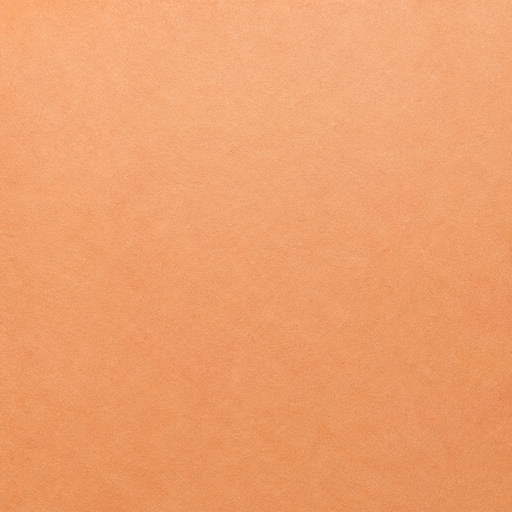
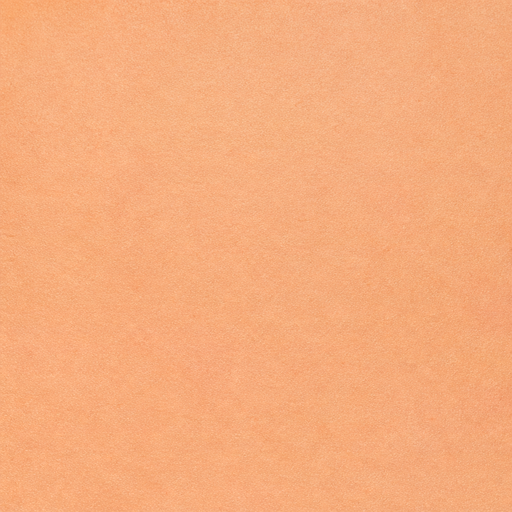
ART-0 pass 3: the material tiles skin and fabric really tile now (level correction, no resample)
Measured on the shipped 512 bytes: skin's wrap cut steps 24.71 levels against the tile's own
grain of 4.54 (5.4x, 94.6 % of boundary pixels step > 12, p95 42) and fabric 2.1x/2.4x - both
read as a hard brightness line at every 0.5 m repeat in the gallery material row. A crop that
minimises the boundary step (pure roll) was rejected by a blind 2x2 A/B: it only moves the step
inside the tile. Tools/gen-level-textures.py now levels the tile instead - one constant per row
and per column (c(y) = d*y/(h-1)), applied only when cut > 1.5 levels and cut > 2x the tile's
own grain, so no interior difference changes, nothing is blurred or relocated. skin Y
24.71 -> 5.64, fabric Y 7.23 -> 5.12 / X 5.72 -> 4.91.

Determinism: the rerun touches exactly skin.png and fabric.png (git status names two files);
the four level PNGs and all 11 .meta files are byte-identical, guids unmoved. Evidence:
Trials/Runs/art-0-tilewrap/{skin,fabric}_fixed_blind.png (shipped bytes vs new) and the real
frame from the rebuilt preview player, Trials/Runs/gallery2_*.png vs gallery1_* (differ in
exactly the skin and fabric swatch blocks, x 281-431 and x 485-634). No .cs touched; skin and
fabric have one caller (GalleryScene material row), so no simulation path loads them.

Changed region(s): [[0.0, 0.7812, 1.0, 1.0]]

diff --git a/Tools/gen-level-textures.py b/Tools/gen-level-textures.py
@@ -20,6 +20,13 @@ downsamples to 512 at runtime anyway and tiled surfaces gain nothing above that 
 Painted here: ground_fill (soil side view), ground_cap (grass strip), sky (colour ramp),
 sign_finish (finish pennant). All four are seamless in X where they are tiled.
 
+The seven material tiles are downscaled 1024 -> 512 and then levelled: a legacy surface
+whose top edge is brighter than its bottom edge cannot tile, because every repeat steps by
+that difference and the eye reads the step as a line at the repeat (ART-0 review, 19.09:
+skin stepped 24.7 levels over 94.6 % of its boundary, 5.4x its own grain). Levelling adds
+one constant per row and one per column, so the level returns to itself at the wrap while
+every interior difference and every detail is left alone.
+
 Run from the project root:   python Tools/gen-level-textures.py
 Writes the PNGs plus their .meta import settings, then prints a verification table.
 """
@@ -30,6 +37,7 @@ import random
 import re
 import shutil
 
+import numpy as np
 from PIL import Image
 
 ROOT = os.path.dirname(os.path.dirname(os.path.abspath(__file__)))
@@ -440,6 +448,58 @@ def seam_error(img):
     return seam, inner
 
 
+def wrap_stats(a, axis):
+    """(cut, inner) in 0-255 levels, averaged over the RGB channels.
+
+    cut   = |first edge pixel - last edge pixel|: the step a repeat shows at the wrap.
+    inner = |neighbour pixel|: the grain the eye already accepts inside the tile.
+    A tile whose cut is no worse than its own grain cannot be seen to repeat.
+    """
+    cut = np.abs(a.take(0, axis=axis).astype(np.int16) - a.take(-1, axis=axis).astype(np.int16))
+    inner = np.abs(np.diff(a.astype(np.int16), axis=axis))
+    return float(cut.mean()), float(inner.mean())
+
+
+def level_tile(img, ratio=2.0, floor=1.5, cap=64.0):
+    """Cancel a brightness ramp across a tile with one constant per row and one per column.
+
+    A legacy surface whose top edge is brighter than its bottom edge cannot tile: every
+    repeat steps by that difference and the eye reads the step as a line on the grid. The
+    correction c(y) = d * y / (h - 1), d being the row means' end-to-end difference, makes
+    the row means meet at the wrap, and the same in x. A constant per row cannot change an
+    interior difference, so no detail is blurred and no pixel is resampled or relocated -
+    unlike a roll, which only moves the step inside the tile (the 2x2 A/B showed that).
+
+    Left alone when the cut is no worse than the tile's own grain, or when the step is so
+    large that the file is not a surface. Returns (image, note).
+    """
+    a = np.asarray(img.convert("RGB")).astype(np.float64)
+    h, w = a.shape[:2]
+    correction = np.zeros_like(a)
+    parts = []
+    for axis, n, name in ((0, h, "Y"), (1, w, "X")):
+        cut, inner = wrap_stats(a, axis)
+        step = a.mean(axis=1 - axis)[0] - a.mean(axis=1 - axis)[-1]
+        if cut <= floor or cut <= ratio * inner:
+            parts.append("%s ok cut %.2f vs inner %.2f" % (name, cut, inner))
+            continue
+        if float(np.abs(step).max()) > cap:
+            parts.append("%s step %.1f over cap %.0f, left alone" % (
+                name, float(np.abs(step).max()), cap))
+            continue
+        ramp = np.linspace(0.0, 1.0, n)[:, None] * step[None, :]
+        correction += ramp.reshape((n, 1, 3) if axis == 0 else (1, n, 3))
+        parts.append("%s ramped %.1f..%.1f" % (name, float(step.min()), float(step.max())))
+    if correction.any():
+        out = np.clip(a + correction, 0.0, 255.0).astype(np.uint8)
+        for axis, name in ((0, "Y"), (1, "X")):
+            cut, inner = wrap_stats(out, axis)
+            parts.append("%s now cut %.2f vs inner %.2f" % (name, cut, inner))
+    else:
+        out = a.astype(np.uint8)
+    return Image.fromarray(out, "RGB"), "; ".join(parts)
+
+
 def main():
     os.makedirs(LEVEL_DIR, exist_ok=True)
     os.makedirs(ART_DIR, exist_ok=True)
@@ -465,12 +525,13 @@ def main():
         before = os.path.getsize(src)
         img = Image.open(src).convert("RGB")
         src_size = img.size
-        out = img.resize((512, 512), Image.LANCZOS)
+        down = img.resize((512, 512), Image.LANCZOS)
+        out, note = level_tile(down)
         path = os.path.join(ART_DIR, key + ".png")
         size = save(out, path, 512, True, False, guid_rng)
         rows.append(("Resources/Art/" + key + ".png",
                      "%dx%d -> %dx%d" % (src_size[0], src_size[1], 512, 512), 512,
-                     "%d KB -> %d KB" % (before // 1024, size // 1024), "readable"))
+                     "%d KB -> %d KB" % (before // 1024, size // 1024), "readable; " + note))
 
     meta_dir = os.path.join(ROOT, "Assets", "Resources", "Art.meta")
     if not os.path.exists(meta_dir):

diff --git a/.cursor/tasks/ART-0-delivery.md b/.cursor/tasks/ART-0-delivery.md
@@ -178,3 +178,66 @@ Still open, unchanged by this cycle: the per-part sprites (`ART-1b`), the four `
 (`LevelArt.UseTiledFill()` + `ArtLibrary.Tiled` is the declared path and the fill is ready for it),
 and the legacy material tiles' approximate tiling (item 5 above).
 
+## Third pass 19.09 - the material tiles really tile now (skin, fabric)
+
+Item 5 above stopped at "a wrap blend is an art decision and is left open". The gallery's 1 m
+material swatch row (`Trials/Runs/gallery1_materials.png`, ART-1c) then showed it as a shipping
+defect, so it was measured and fixed.
+
+Measured on the shipped 512 bytes (`cut` = mean |first edge pixel - last edge pixel|, `inner` =
+mean |neighbour|, both in 0-255 levels over RGB):
+
+| material | cut X / Y | inner X / Y | ratio | verdict |
+|---|---|---|---|---|
+| skin | 5.90 / **24.71** | 4.01 / 4.54 | 1.5x / **5.4x** | defect: 94.6 % of the boundary pixels step more than 12 levels (p95 42) |
+| fabric | 5.72 / 7.23 | 2.71 / 2.98 | 2.1x / 2.4x | defect: 7.1 % / 15.7 % step more than 12 levels |
+| bark | 27.36 / 22.71 | 19.03 / 14.46 | 1.44x / 1.57x | noise texture: a cut is no worse than a groove |
+| leaf | 16.83 / 17.07 | 12.53 / 12.20 | 1.34x / 1.40x | left alone |
+| grass / denim / dirt | 30.17-22.54 | 26.20-18.68 | 1.13-1.23x | left alone |
+
+So `skin` and `fabric` are the two that cannot tile; the other five have a cut no worse than their
+own grain.
+
+**What was tried and rejected.** Moving the crop origin to the least-discontinuous cut (a pure roll,
+no resample) takes skin's boundary step from 24.71 to 4.09 and passes any boundary metric. A blind
+2x2 A/B with neutral labels (`Trials/Runs/art-0-tilewrap/skin_blind.png`) had the eye pick the
+*rolled* sheet as the one with a light band: a crop cannot remove a ramp, it only moves the step
+inside the tile (16 px above the bottom edge, 24.5 levels). Kept as evidence of the trap - a
+boundary metric cannot see a step that has moved inside.
+
+**The fix.** `level_tile` in `Tools/gen-level-textures.py` adds one constant per row
+(`c(y) = d * y / (h - 1)`, `d` = the row means' end-to-end difference) and one per column, and only
+when `cut > 1.5` levels **and** `cut > 2x` the tile's own grain, with a 64-level cap. A constant per
+row cannot change an interior difference: no blur, no resample, nothing relocated - the level simply
+returns to itself at the wrap. It fired on skin (Y ramp 16.8..31.3) and fabric (Y 4.7..6.9,
+X -4.0..-2.6), and on nothing else.
+
+After: skin Y cut **24.71 -> 5.64** (its own grain 4.54), fabric Y 7.23 -> 5.12, X 5.72 -> 4.91. The
+residual is the detail difference between the two edge rows, not a ramp.
+
+**Determinism.** The rerun rewrites all 11 PNGs; `git status` names exactly two changed
+(`skin.png`, `fabric.png`), and the four level PNGs plus all 11 `.meta` files are byte-identical
+(`md5sum` before/after) - the guids did not move, so no scene reference changes and the sizes stay
+407 KB / 334 KB.
+
+**Evidence.**
+- Blind 2x2 A/B, shipped bytes (`git show HEAD:Assets/Resources/Art/skin.png`) vs new, neutral
+  labels: `art-0-tilewrap/skin_fixed_blind.png`, `fabric_fixed_blind.png`. Read: "the right sheet
+  reads as one continuous surface; the left shows a clear brightness step."
+- The real frame, same camera and same moment: preview player rebuilt
+  (`Logs/art0-tilelevel-build.log`, exit 0) and captured with the ART-1 args
+  (`Logs/art0-tilelevel-gallery2.log`: `GALLERY-CAPTURE DONE label=gallery2 stills=7
+  panFrames=165 real=28 missing=13 dressed=5567`) into `Trials/Runs/gallery2_*.png`.
+  `gallery1_materials.png` vs `gallery2_materials.png` differ in exactly two column blocks,
+  x 281-431 and x 485-634 - the skin and fabric swatches - and nowhere else in the 1920x1080 frame.
+  `art-0-tilewrap/frame_skin_blind.png` and `frame_fabric_blind.png` (3x, LEFT = shipped,
+  RIGHT = fixed): the eye names the RIGHT as evenly lit on both.
+- Physics: no `.cs` touched. `ArtLibrary.Skin` / `ArtLibrary.Fabric` have exactly one caller,
+  `GalleryScene.cs:72` (the swatch row) plus the two editor checks, so neither PNG is on any
+  simulation path. This cycle's `git status`: `Tools/gen-level-textures.py`, the two PNGs, this card.
+
+**Still open.** `bark`, `leaf`, `grass`, `denim`, `dirt` keep their wrap: no worse than their own
+grain by the numbers, but `leaf` still shows a sliced vein at the wrap by eye, so the next step
+there - if Yury wants it - is a cross-fade band of a few tens of px over the wrap, which is a
+deliberate 2-3 % detail trade rather than this constant-per-row correction.
+
